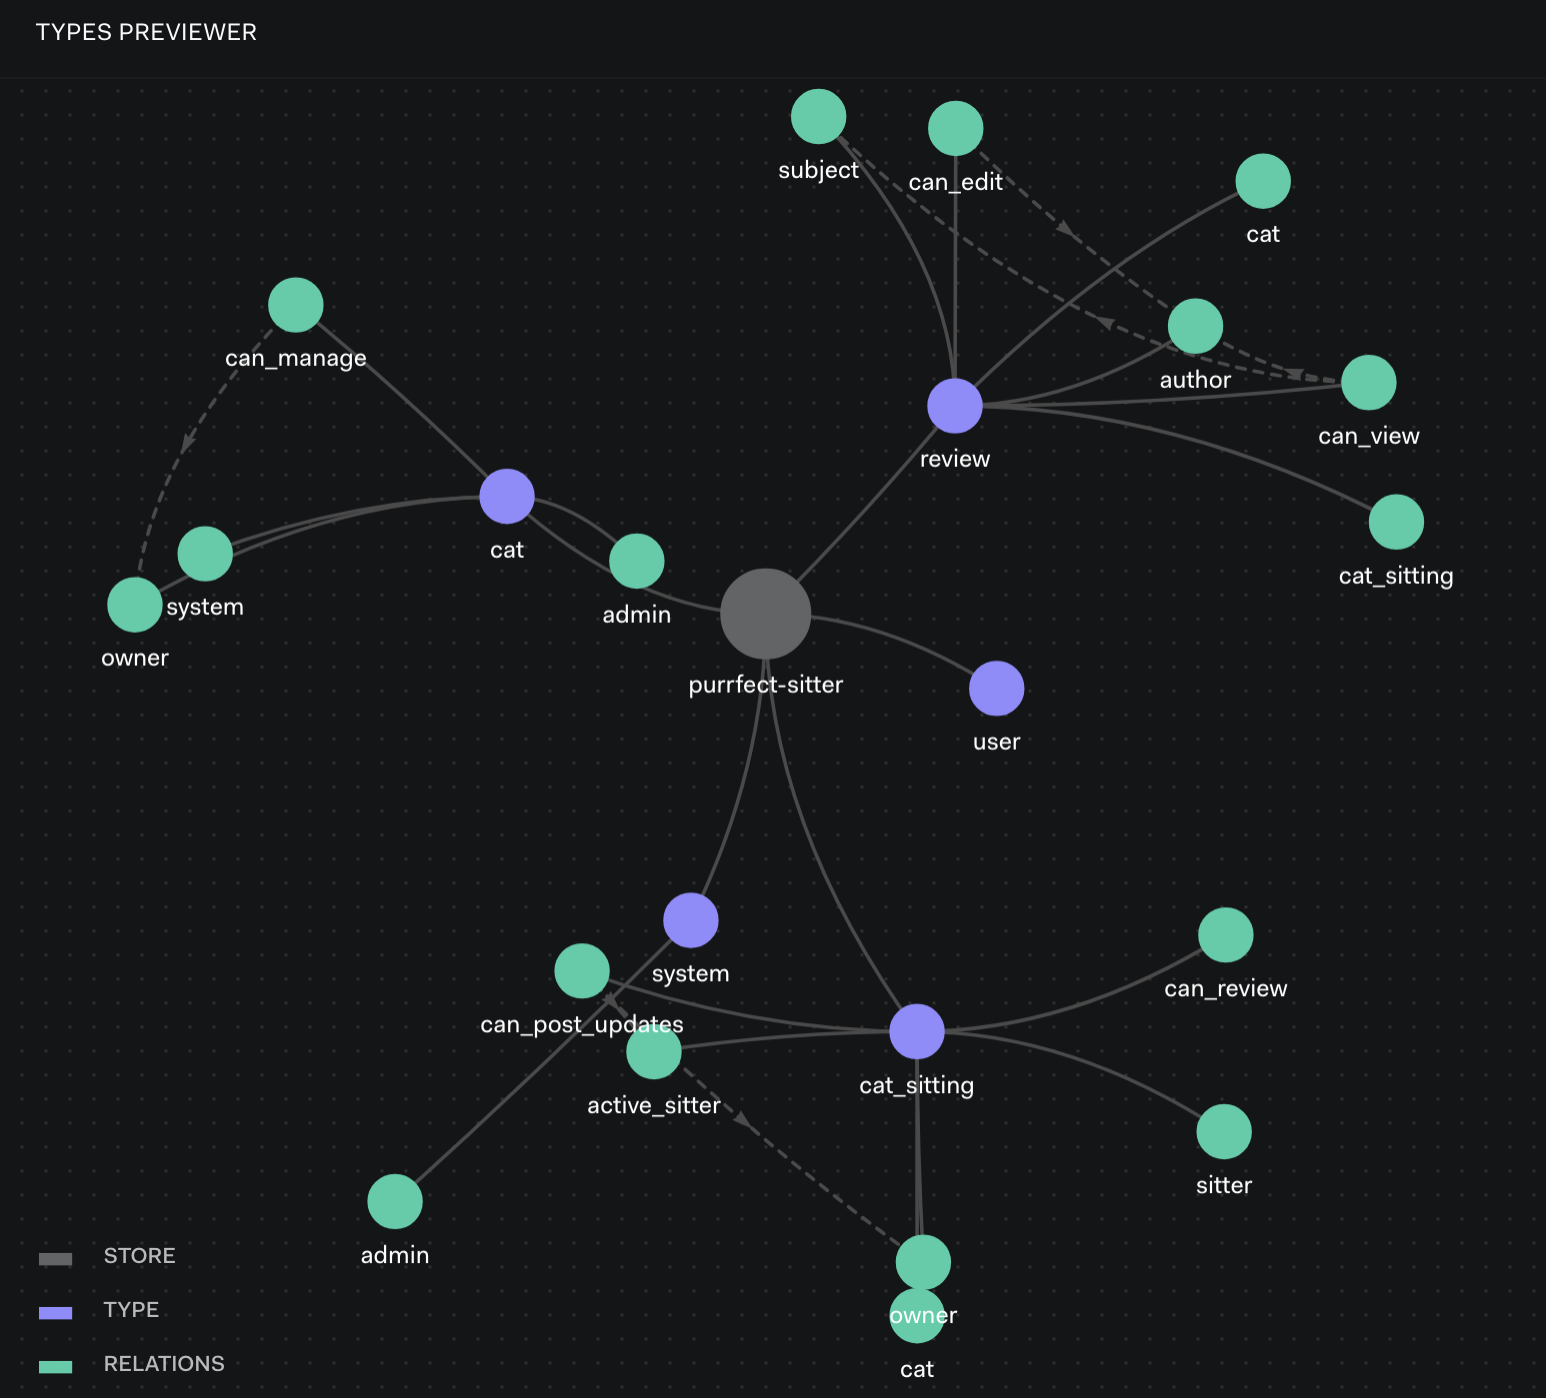
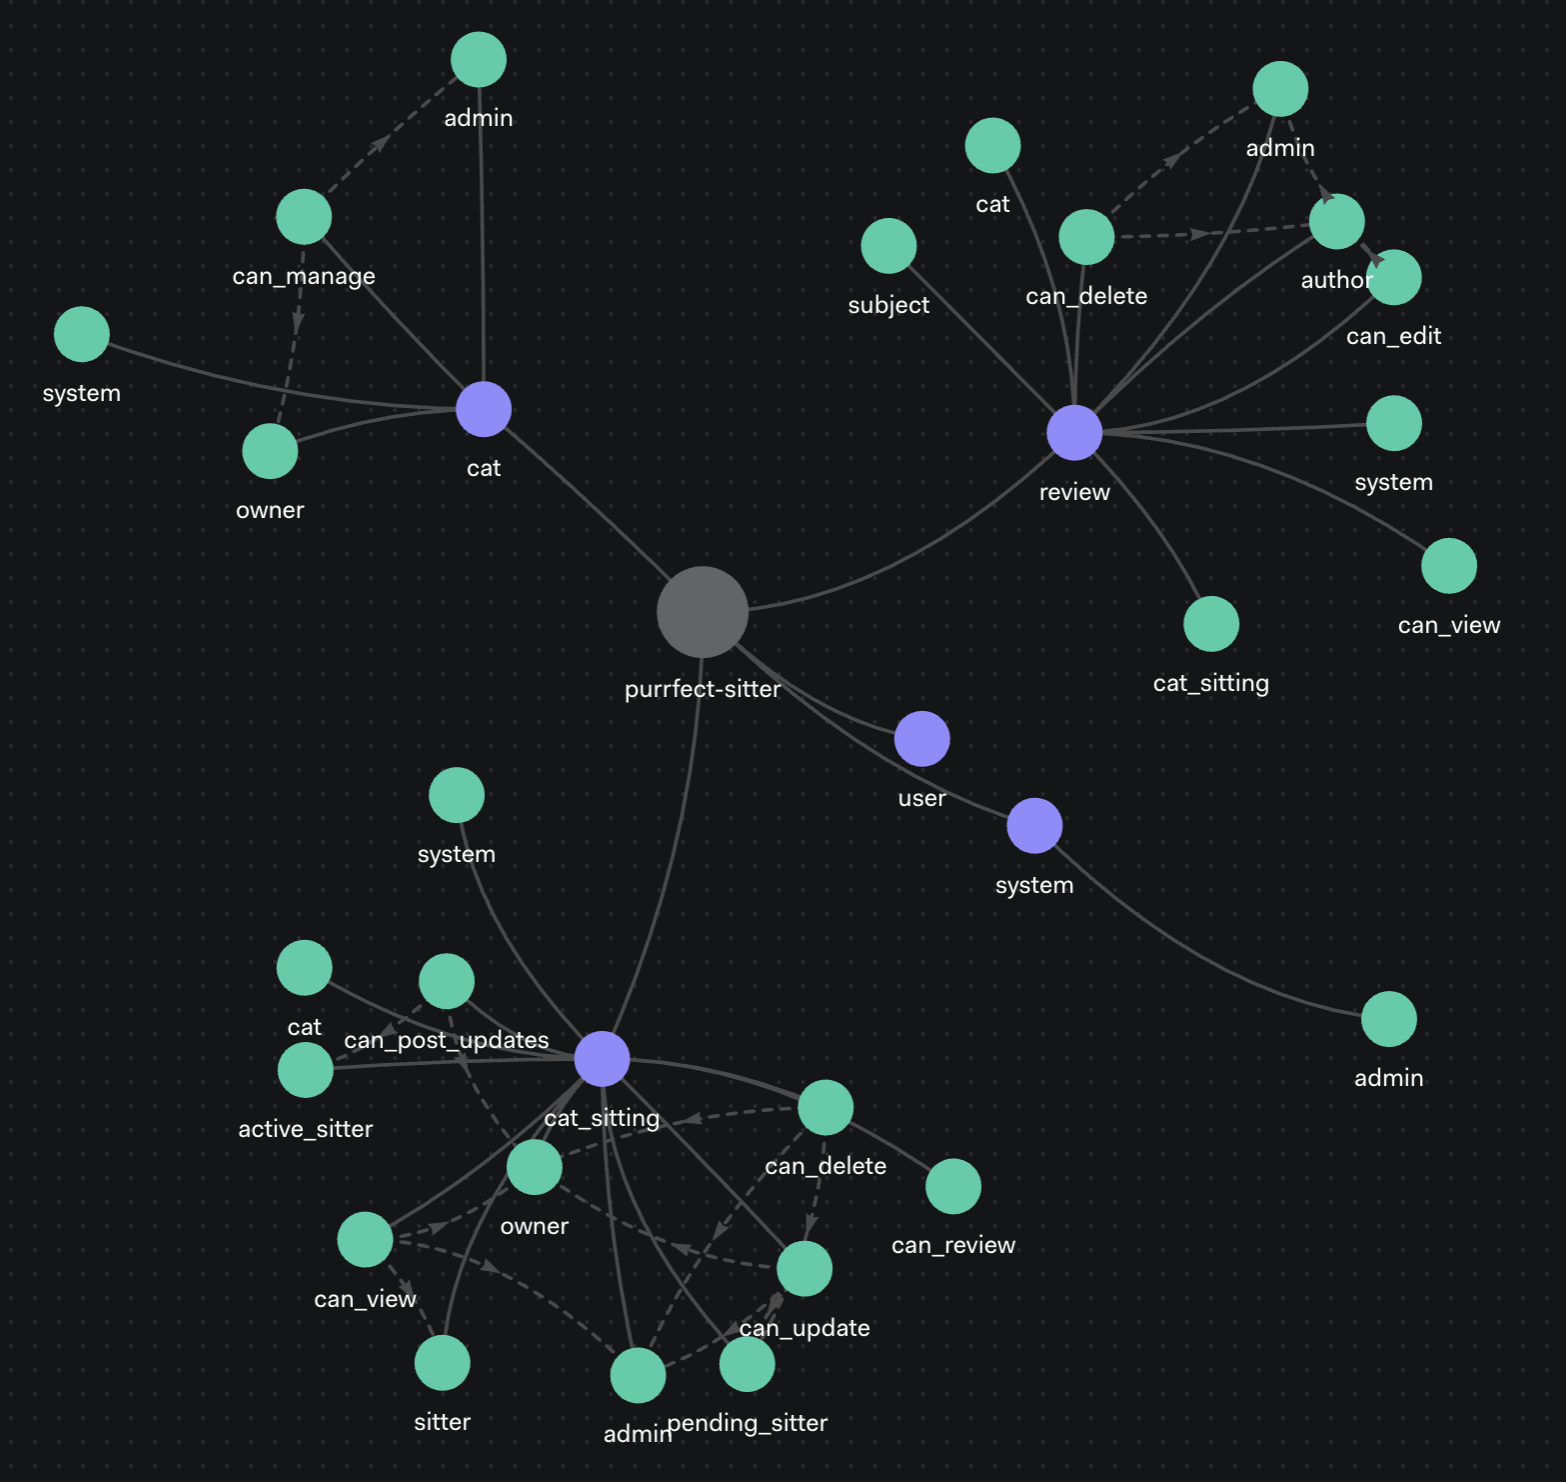
docs: update cover image and enhance content in Taming Authorization with OpenFGA article

diff --git a/docs/articles/taming-authorization-with-openfga/README.md b/docs/articles/taming-authorization-with-openfga/README.md
@@ -3,20 +3,22 @@ title: Taming Authorization with OpenFGA
 published: false
 description: Learn how to implement complex authorization patterns using OpenFGA and Relation-Based Access Control (ReBAC) through a practical example of a cat sitting app.
 tags: tutorial, openfga, authorization, security
-cover_image: https://dev-to-uploads.s3.amazonaws.com/uploads/articles/2ri39p5t1hohct51ct4w.jpeg
+cover_image: https://dev-to-uploads.s3.amazonaws.com/uploads/articles/3gnprublltayvl6t6zh5.jpeg
 ---
 
-![Cool cover](Image.jpeg)
+A client asked me recently:
 
-## The Authorization Problem That Started with "Just Add Admin Roles"
+> Can we add temporary permissions for our support team during incidents?
 
-A client asked me recently: "Can we add temporary permissions for our support team during incidents?" Simple enough—until I examined their authorization code and found a 500-line function checking user roles, time windows, resource ownership, and various business rules.
+Simple enough—until I examined their authorization code and found a 500-line function checking user roles, time windows, resource ownership, and various business rules.
 
 I did not imagine that this seemingly innocent request would lead me so **deep** into exploring **Relation-Based Access Control (ReBAC)** and **OpenFGA**.
 
-Unlike authentication, where we have OAuth2, JWT, and other established patterns, authorization often forces us into custom implementations. Each new requirement adds another conditional branch, another database join, another edge case that breaks during the next feature request.
+Unlike authentication, where we have OAuth2, JWT, and other established standards and patterns, authorization often forces us into custom implementations. Each new requirement adds another **conditional branch**, another **database join**, another **edge case that breaks** during the next feature request.
 
-![this is fine](./this-is-fine.png)
+<!-- Cognitive complexity counter  -->
+
+![this is fine](https://dev-to-uploads.s3.amazonaws.com/uploads/articles/09cwef7zad5jqr7grjz7.png)
 
 Traditional approaches quickly hit walls:
 
@@ -24,7 +26,7 @@ Traditional approaches quickly hit walls:
 - **ABAC** offers flexibility but becomes a rule engine nightmare
 - **Database queries** slow to a crawl as your permission matrix grows
 
-My exploration started with **Ory Keto** while [integrating Ory in a NestJS application](https://dev.to/getlarge/integrate-ory-in-a-nestjs-application-4llo), which introduced me to Google's Zanzibar paper and the concept of **Relation-Based Access Control (ReBAC)**. Further research led me to **OpenFGA**—a more focused implementation that models permissions as relationships between entities rather than complex boolean logic.
+My exploration started with **Ory Keto** while [integrating Ory in a NestJS application](https://dev.to/getlarge/integrate-ory-in-a-nestjs-application-4llo), which introduced me to [Google's Zanzibar paper](https://research.google/pubs/zanzibar-googles-consistent-global-authorization-system/) and the concept of **Relation-Based Access Control (ReBAC)**. Further research led me to **OpenFGA**—a more focused implementation that models permissions as relationships between entities rather than complex boolean logic.
 
 ## ReBAC in Action: Building PurrfectSitter
 
@@ -94,8 +96,6 @@ OpenFGA computes relationships in several ways:
 
 Here's PurrfectSitter's authorization model in OpenFGA's simple syntax (Domain-Specific Language for the purists):
 
-![OpenFGA Playground generated from PurrfectSitter model](./purrfect-sitter-authorization-model.png)
-
 ```yaml
 model
   schema 1.1
@@ -115,19 +115,25 @@ type cat
 
 type cat_sitting
   relations
+    define admin: admin from system
     define active_sitter: [cat_sitting#sitter with is_active_timeslot]
+    define pending_sitter: [cat_sitting#sitter with is_pending_timeslot]
     define can_post_updates: owner or active_sitter
+    define can_delete: admin or owner or pending_sitter
+    define can_view: admin or owner or sitter
+    define can_update: admin or owner or pending_sitter
     define can_review: [cat#owner with is_cat_sitting_completed]
     define cat: [cat]
     define owner: owner from cat
     define sitter: [user]
+    define system: [system]
 
 type review
   relations
     define admin: admin from system
     define author: owner from cat_sitting
-    define can_delete: admin
-    define can_edit: author
+    define can_delete: admin or author
+    define can_edit: admin or author
     define can_view: [user, user:*]
     define cat: cat from cat_sitting
     define cat_sitting: [cat_sitting]
@@ -138,12 +144,22 @@ condition is_active_timeslot(current_time: timestamp, end_time: timestamp, start
   current_time >= start_time && current_time <= end_time
 }
 
+condition is_pending_timeslot(current_time: timestamp, start_time: timestamp) {
+  current_time < start_time
+}
+
 condition is_cat_sitting_completed(cat_sitting_attributes: map<string>, completed_statuses: list<string>) {
   cat_sitting_attributes["status"] in completed_statuses
 }
 ```
 
-Notice how readable this is — no complex SQL joins or nested conditions. The model captures business logic naturally.
+Notice how readable, yet compact, this is — no complex SQL joins or nested conditions. The model captures business logic naturally.
+
+![Niiice](https://media1.giphy.com/media/v1.Y2lkPTc5MGI3NjExNmxxeTI3NXg0MmI4a2xlZDEzYXo3MzhxanF3Ym9oajlxdXR0cmU0byZlcD12MV9pbnRlcm5hbF9naWZfYnlfaWQmY3Q9Zw/kQdtQ8JIYFRuoywakC/giphy.gif)
+
+You can visualize the relations graph in [OpenFGA's Playground](https://openfga.dev/docs/getting-started/setup-openfga/playground):
+
+![OpenFGA Playground generated from PurrfectSitter model](https://dev-to-uploads.s3.amazonaws.com/uploads/articles/oh2yxuh779j5yesvpbkd.png)
 
 ### Operators That Make Sense
 
@@ -173,7 +189,9 @@ Grant permissions only when conditions are met—like during scheduled hours.
 
 ## See It Working
 
-Let's test our model with real scenarios:
+Let's test our model with real scenarios. We'll use the OpenFGA CLI to create a store, write the model, and run queries.
+
+![But first, coffee](https://media3.giphy.com/media/v1.Y2lkPTc5MGI3NjExZnZmZml2N25uZWI2bHAzaXdrdGprZzRpeTdtZnd3ZXRveDQ5MmR5ZCZlcD12MV9pbnRlcm5hbF9naWZfYnlfaWQmY3Q9Zw/2uIlaxs2XT8d1eR0Hw/giphy.gif)
 
 ### 1. Setting Up OpenFGA
 
@@ -195,6 +213,8 @@ fga model get
 
 Now establish some relationships:
 
+<!-- TODO: make long bash code block easier to read -->
+
 ```bash
 # Bob owns Romeo (the cat)
 fga tuple write user:bob owner cat:romeo
@@ -213,6 +233,8 @@ fga query check user:anne can_manage cat:romeo
 ```
 
 Bob owns Romeo, Anne sits for him. Simple.
+
+> Note: For the sake of this example, we will assume that cats are owned by humans. We all know that cats own us, not the other way around.
 
 ### 3. Admin Powers
 
@@ -234,7 +256,8 @@ Jenny becomes a system admin who can manage any cat—traditional RBAC within Re
 
 ```bash
 # Make Anne active only during a specific time window
-fga tuple write cat_sitting:1#sitter active_sitter cat_sitting:1 --condition-name is_active_timeslot --condition-context '{"start_time":"2023-01-01T00:00:00Z","end_time":"2023-01-02T00:00:00Z"}'
+fga tuple write cat_sitting:1#sitter active_sitter cat_sitting:1 --condition-name is_active_timeslot \
+--condition-context '{"start_time":"2023-01-01T00:00:00Z","end_time":"2023-01-02T00:00:00Z"}'
 
 # Is Anne the sitter?
 fga query check user:anne sitter cat_sitting:1
@@ -267,7 +290,8 @@ Anne's permissions activate and deactivate automatically based on time. No cron 
 
 ```bash
 # Set up review permission based on status
-fga tuple write cat:romeo#owner can_review cat_sitting:1 --condition-name is_cat_sitting_completed --condition-context '{"completed_statuses":["completed"]}'
+fga tuple write cat:romeo#owner can_review cat_sitting:1 --condition-name is_cat_sitting_completed \
+--condition-context '{"completed_statuses":["completed"]}'
 
 # Can Bob review while sitting is pending?
 fga query check user:bob can_review cat_sitting:1 --context='{"cat_sitting_attributes":{"status": "pending"}}'
@@ -324,6 +348,8 @@ fga query check user:edouard can_view review:1
 # Yes (true)
 ```
 
+<!-- TODO: mention SDK for multiple languages and show examples in the app with Node.js SDK? -->
+
 ## Testing with OpenFGA CLI
 
 One of OpenFGA's strengths is its built-in testing capabilities. The CLI provides a declarative way to test authorization models without writing application code.
@@ -336,12 +362,9 @@ Define tests in YAML and run with a single command:
 fga model test --tests store.fga.yml
 ```
 
-Key advantages:
+...and forget about all the commands above. The `store.fga.yml` file contains everything you need to create the model and tuples, and run the tests before writing application code!
 
-- Test authorization before writing application code
-- Verify changes without deployment
-- Test complex scenarios with simple syntax
-- Document your permission model
+![Thank goodness](https://media4.giphy.com/media/v1.Y2lkPTc5MGI3NjExbHFwcjE1b3NvNGtqYWcwMGRoNHhmbnFmNzRncHo4ZXdyOWdmcmE5cyZlcD12MV9pbnRlcm5hbF9naWZfYnlfaWQmY3Q9Zw/Xir88f7Y54j08KBWUQ/giphy.gif)
 
 ### Testing the PurrfectSitter Model
 
@@ -499,6 +522,8 @@ tests:
               - user:*
 ```
 
+> You can find `store.fga.yml` in the [demo repository](https://github.com/getlarge/purrfect-sitter/blob/main/store.fga.yml).
+
 ### Test Types
 
 The example demonstrates several test types:
@@ -576,6 +601,8 @@ Traditional systems answer "Can Alice do X?" OpenFGA also answers "What can Alic
 
 Google's Zanzibar (which inspired OpenFGA) handles billions of authorization checks daily. Your cat sitting app probably won't hit those numbers, but it's nice to know you won't hit a wall.
 
+<!-- TODO: mention benchmark script to compare DB lookups vs OpenFGA -->
+
 ## Adoption Challenges and Strategies
 
 Adopting OpenFGA in existing systems presents challenges. Here's how to address them:
@@ -648,13 +675,12 @@ For large organizations:
 
 Authorization doesn't have to be the part of your codebase that makes you cry. ReBAC and OpenFGA offer a cleaner path—one that grows with your app instead of strangling it.
 
-Start with PurrfectSitter's model, adapt it to your domain, and watch complex permission logic become simple relationship definitions.
-
-The complete code lives at [github.com/getlarge/purrfect-sitter](https://github.com/getlarge/purrfect-sitter). OpenFGA's documentation is at [openfga.dev](https://openfga.dev/).
+Start with PurrfectSitter's model, draw inspiration from the application in [github.com/getlarge/purrfect-sitter](https://github.com/getlarge/purrfect-sitter), adapt it to your domain, and watch complex permission logic become simple relationship definitions.
 
 Your future self will thank you for choosing relationships over nested IF statements.
 
----
+## ![I don't know what to say](https://media2.giphy.com/media/v1.Y2lkPTc5MGI3NjExZjZ1NjVvc2R1c211YW9zZ3htM24zMW9wbXBieWVrdmtrbnU1eHRzdyZlcD12MV9pbnRlcm5hbF9naWZfYnlfaWQmY3Q9Zw/l2ZDPwr4ZSJl9QlJS/giphy.gif)
 
-Zanzibar Academy https://zanzibar.academy
-Google's Zanzibar Paper (2019) https://research.google/pubs/zanzibar-googles-consistent-global-authorization-system/
+<!-- References -->
+<!-- Zanzibar Academy https://zanzibar.academy -->
+<!-- [openfga.dev](https://openfga.dev/). -->
